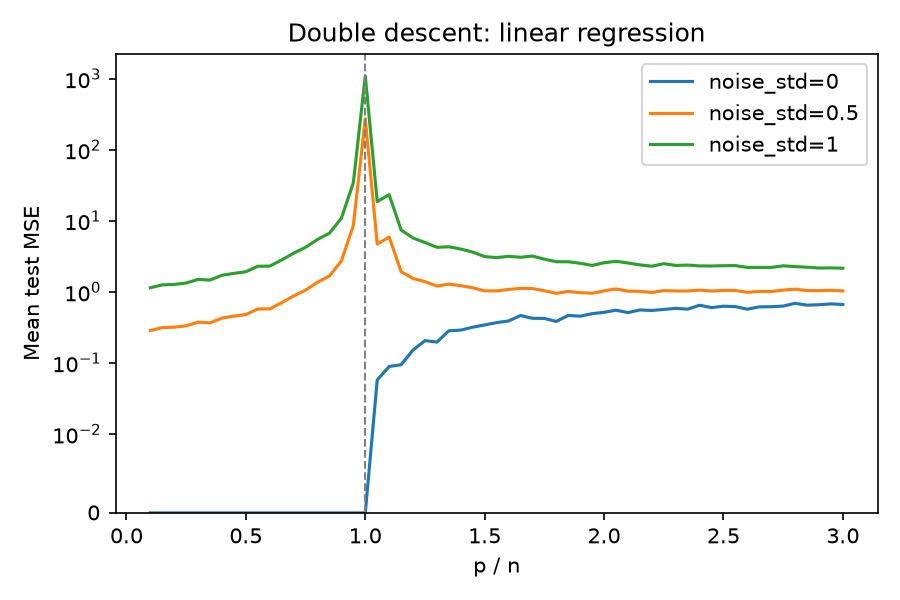
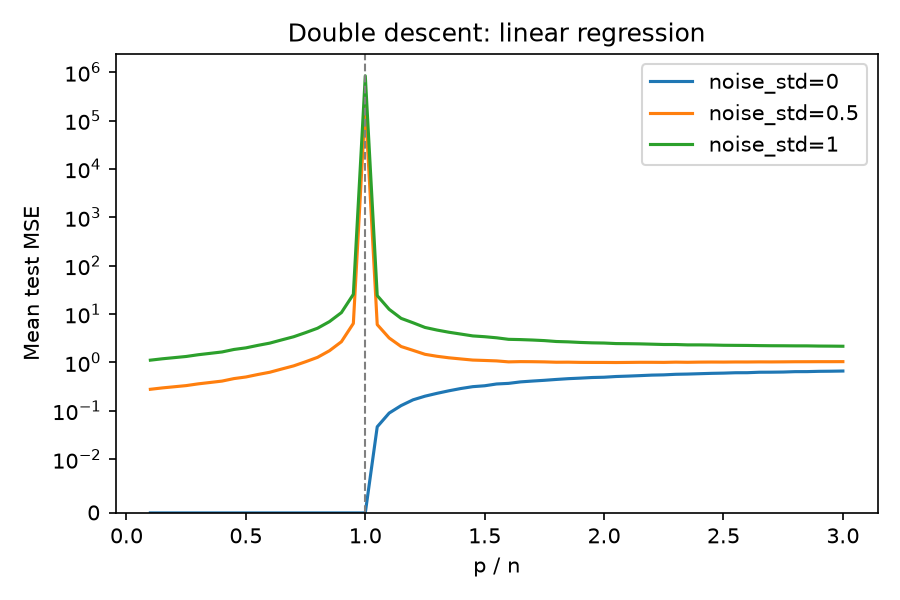
increase number of trials

diff --git a/double_descent/experiments.py b/double_descent/experiments.py
@@ -89,7 +89,7 @@ def add_common_arguments(parser):
     parser.add_argument("--n-test", type=int, default=2000)
     parser.add_argument("--ratios", type=float, nargs="+", default=DEFAULT_RATIOS,
                         help="p/n values, rounded to integer feature counts")
-    parser.add_argument("--trials", type=int, default=5)
+    parser.add_argument("--trials", type=int, default=200)
     parser.add_argument("--seed", type=int, default=0)
     parser.add_argument("--signal-norm", type=float, default=1.0)
     parser.add_argument("--output-dir", type=Path, default=Path("outputs"))
